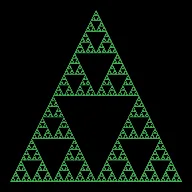
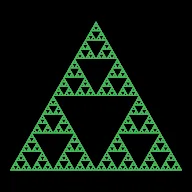
Sierpinski triangle: equilateral (1.42.3); new thumbnail

Changed region(s): [[0.0312, 0.0625, 0.9688, 0.9688]]

diff --git a/index.html b/index.html
@@ -5,9 +5,9 @@
 <meta name="viewport" content="width=device-width, initial-scale=1, maximum-scale=1, user-scalable=no, viewport-fit=cover">
 <title>Fractal Atlas&trade;</title>
 
-<link rel="manifest" href="manifest.webmanifest?v=1.42.2">
+<link rel="manifest" href="manifest.webmanifest?v=1.42.3">
 <meta name="theme-color" content="#111111">
-<link rel="icon" href="icons/favicon-32.png?v=1.42.2" sizes="32x32" type="image/png">
+<link rel="icon" href="icons/favicon-32.png?v=1.42.3" sizes="32x32" type="image/png">
 
 <!-- iOS Safari ignores the manifest entirely for install/homescreen purposes
      and needs its own meta tags + a dedicated (non-transparent) icon. -->
@@ -15,7 +15,7 @@
 <meta name="mobile-web-app-capable" content="yes">
 <meta name="apple-mobile-web-app-status-bar-style" content="black-translucent">
 <meta name="apple-mobile-web-app-title" content="Fractal Atlas">
-<link rel="apple-touch-icon" href="icons/apple-touch-icon.png?v=1.42.2">
+<link rel="apple-touch-icon" href="icons/apple-touch-icon.png?v=1.42.3">
 
 <!-- Smart App Banner: Safari on iPhone/iPad offers the App Store app.
      Ignored everywhere else, including the app's own web view. -->
@@ -917,31 +917,31 @@
   </div>
 </div>
 
-<script src="colormaps.js?v=1.42.2"></script>
-<script src="shaders.js?v=1.42.2"></script>
-<script src="lsystem.js?v=1.42.2"></script>
-<script src="vectorgeom.js?v=1.42.2"></script>
-<script src="koch.js?v=1.42.2"></script>
-<script src="pythagoras.js?v=1.42.2"></script>
-<script src="dragon.js?v=1.42.2"></script>
-<script src="fern.js?v=1.42.2"></script>
-<script src="platform.js?v=1.42.2"></script>
-<script src="diag.js?v=1.42.2"></script>
-<script src="configs.js?v=1.42.2"></script>
-<script src="places.js?v=1.42.2"></script>
-<script src="fractal-defs.js?v=1.42.2"></script>
-<script src="deepzoom.js?v=1.42.2"></script>
-<script src="renderer.js?v=1.42.2"></script>
-<script src="state-colors.js?v=1.42.2"></script>
-<script src="render-layout.js?v=1.42.2"></script>
-<script src="modes.js?v=1.42.2"></script>
-<script src="interaction.js?v=1.42.2"></script>
-<script src="compass-ui.js?v=1.42.2"></script>
-<script src="teleport.js?v=1.42.2"></script>
-<script src="colormap-picker.js?v=1.42.2"></script>
-<script src="color-sheet.js?v=1.42.2"></script>
-<script src="share.js?v=1.42.2"></script>
-<script src="app.js?v=1.42.2"></script>
+<script src="colormaps.js?v=1.42.3"></script>
+<script src="shaders.js?v=1.42.3"></script>
+<script src="lsystem.js?v=1.42.3"></script>
+<script src="vectorgeom.js?v=1.42.3"></script>
+<script src="koch.js?v=1.42.3"></script>
+<script src="pythagoras.js?v=1.42.3"></script>
+<script src="dragon.js?v=1.42.3"></script>
+<script src="fern.js?v=1.42.3"></script>
+<script src="platform.js?v=1.42.3"></script>
+<script src="diag.js?v=1.42.3"></script>
+<script src="configs.js?v=1.42.3"></script>
+<script src="places.js?v=1.42.3"></script>
+<script src="fractal-defs.js?v=1.42.3"></script>
+<script src="deepzoom.js?v=1.42.3"></script>
+<script src="renderer.js?v=1.42.3"></script>
+<script src="state-colors.js?v=1.42.3"></script>
+<script src="render-layout.js?v=1.42.3"></script>
+<script src="modes.js?v=1.42.3"></script>
+<script src="interaction.js?v=1.42.3"></script>
+<script src="compass-ui.js?v=1.42.3"></script>
+<script src="teleport.js?v=1.42.3"></script>
+<script src="colormap-picker.js?v=1.42.3"></script>
+<script src="color-sheet.js?v=1.42.3"></script>
+<script src="share.js?v=1.42.3"></script>
+<script src="app.js?v=1.42.3"></script>
 <script>
   // Service workers only register on secure origins or localhost, so this is
   // a silent no-op during phone-over-LAN dev testing (plain http://<lan-ip>)

diff --git a/sw.js b/sw.js
@@ -10,7 +10,7 @@
 // when online (so "open the app" == "get the latest push"), and only falls
 // back to the cache when there's no network, which is still enough for
 // real offline support since every asset here is static.
-const CACHE_NAME = "fractal-atlas-aa6b23b8e6db";
+const CACHE_NAME = "fractal-atlas-e2d56ae08ab3";
 
 const APP_SHELL = [
   "./",

diff --git a/CHANGELOG.md b/CHANGELOG.md
@@ -2,6 +2,9 @@
 
 Newest version at the top. See CLAUDE.md for when and how to bump.
 
+## 1.42.3 — 2026-10-24
+- The Sierpinski triangle is now a true equilateral triangle, a little wider and lower than before and centered on the screen. Share links made with the old triangle open on a different part of it.
+
 ## 1.42.2 — 2026-10-23
 - Behind-the-scenes tidy-up of the code; nothing should look or behave differently.
 
